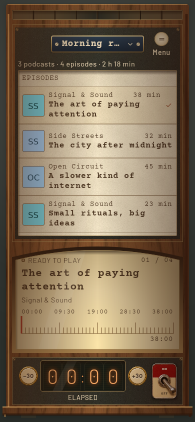
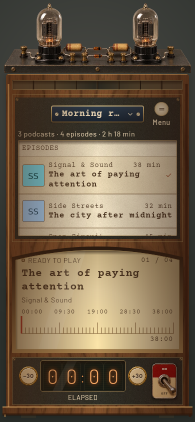
Keep the radio's tubes on every home size (#556)
* Keep the radio's tubes on every home size

Since the first radio home the valve deck stowed whenever the window
could not fit it beside the programme and player budgets, so large
text, small phones, tablets in landscape and the desktop's default
1200x800 window showed a cabinet without tubes. The owner decided the
tubes stay on every screen.

The deck now shows whenever the window is at least 560 dp tall, as on
every other page. Its height follows the cabinet's width up to 22 % of
the window's height; past that the chassis grows longer instead of
the tubes growing larger, repeating mirrored strips of plain plate
beside the outer terminals. The cabinet takes the rest of the height
and the radio scrolls only when that falls below its minimum, which
drops to 440 dp on compact windows so a 320x568 phone keeps its play
switch on screen.

* Record the goldens with the tubes kept

Recorded by record-screenshots run 44139214008. Large text, the small
phone and the tablet now show the valve deck; the phone and playing
goldens differ only in the deck's resampling.

* End the deck's plate strips on an unmirrored copy

GLM's review of #556: when a stretch held an even number of copies,
its last copy was mirrored and met the fixed artwork at the wrong
source column, leaving a seam. The count is now always odd.

Also cover large text on a 320x568 phone with a long title: the deck
stays and the play switch can be scrolled to.

* Fit the deck whole when only rounding makes it wider
[…]

Changed region(s): [[0.0308, 0.0, 0.9846, 0.5853]]

diff --git a/core/designsystem/src/commonMain/kotlin/ch/lkmc/neutrodyne/core/designsystem/radio/RadioMaterials.kt b/core/designsystem/src/commonMain/kotlin/ch/lkmc/neutrodyne/core/designsystem/radio/RadioMaterials.kt
@@ -20,15 +20,21 @@ import androidx.compose.ui.geometry.Offset
 import androidx.compose.ui.geometry.Size
 import androidx.compose.ui.graphics.Brush
 import androidx.compose.ui.graphics.Color
+import androidx.compose.ui.graphics.FilterQuality
+import androidx.compose.ui.graphics.ImageBitmap
 import androidx.compose.ui.graphics.ImageShader
 import androidx.compose.ui.graphics.Path
 import androidx.compose.ui.graphics.ShaderBrush
 import androidx.compose.ui.graphics.Shape
 import androidx.compose.ui.graphics.TileMode
+import androidx.compose.ui.graphics.drawscope.DrawScope
+import androidx.compose.ui.graphics.drawscope.scale
 import androidx.compose.ui.graphics.drawscope.withTransform
 import androidx.compose.ui.layout.ContentScale
 import androidx.compose.ui.text.font.FontFamily
 import androidx.compose.ui.text.font.FontWeight
+import androidx.compose.ui.unit.IntOffset
+import androidx.compose.ui.unit.IntSize
 import androidx.compose.ui.unit.dp
 import ch.lkmc.neutrodyne.core.designsystem.resources.Res
 import ch.lkmc.neutrodyne.core.designsystem.resources.arvo_bold
@@ -46,6 +52,8 @@ import ch.lkmc.neutrodyne.core.designsystem.resources.radio_wood
 import org.jetbrains.compose.resources.Font
 import org.jetbrains.compose.resources.imageResource
 import org.jetbrains.compose.resources.painterResource
+import kotlin.math.ceil
+import kotlin.math.roundToInt
 
 /** Ink printed on the radio's paper and keys. */
 public val Ink: Color = Color(0xFF4B3521)
@@ -247,8 +255,101 @@ public const val VALVE_DECK_ASPECT: Float = 1100f / 423f
 /**
  * The radio's valve deck: two glowing tubes on a metal chassis. The home shows it across the
  * cabinet; every other page carries a smaller one on its cabinet roof (owner decision 2026-11-17).
+ *
+ * The deck fills the node's height. A node wider than the artwork gets a longer chassis rather
+ * than larger tubes: the plain stretches of plate beside the outer terminals repeat, mirrored so
+ * their lighting meets without seams, until the plate spans the node. A narrower node fits the
+ * whole deck inside it.
  */
 @Composable
 public fun ValveDeck(modifier: Modifier = Modifier) {
-    Image(painterResource(Res.drawable.radio_valve_deck), null, modifier, contentScale = ContentScale.Fit)
+    val art = imageResource(Res.drawable.radio_valve_deck)
+    Box(modifier.drawBehind { drawValveDeck(art) })
 }
+
+private fun DrawScope.drawValveDeck(art: ImageBitmap) {
+    if (size.width <= 0f || size.height <= 0f) return
+    // A node within half a pixel of the artwork's proportions (the home's full-width deck, sized
+    // from VALVE_DECK_ASPECT) fits it whole rather than tiling a rounding error.
+    val long = art.width * size.height / art.height < size.width - 0.5f
+    val scale = if (long) size.height / art.height else size.width / art.width
+    val extra = if (long) size.width - art.width * scale else 0f
+    val top = (size.height - art.height * scale) / 2f
+    val height = art.height * scale
+    // Source columns: the left end, a plain stretch, the tubes and circuit, a plain stretch, the
+    // right end. Only the plain stretches grow, each by half of the extra width.
+    val columns =
+        intArrayOf(
+            0,
+            DECK_PLAIN_LEFT.first,
+            DECK_PLAIN_LEFT.last,
+            DECK_PLAIN_RIGHT.first,
+            DECK_PLAIN_RIGHT.last,
+            art.width,
+        )
+    var x = 0f
+    for (segment in 0 until columns.size - 1) {
+        val from = columns[segment]
+        val to = columns[segment + 1]
+        val natural = (to - from) * scale
+        if ((segment == 1 || segment == 3) && extra > 0f) {
+            drawMirroredTiles(art, from, to, x, top, natural + extra / 2f, height, natural)
+            x += natural + extra / 2f
+        } else {
+            drawPart(art, from, to, x, top, natural, height, mirrored = false)
+            x += natural
+        }
+    }
+}
+
+/** Fills [width] from [left] with copies of the [from]..[to] columns, every other one mirrored. */
+private fun DrawScope.drawMirroredTiles(
+    art: ImageBitmap,
+    from: Int,
+    to: Int,
+    left: Float,
+    top: Float,
+    width: Float,
+    height: Float,
+    tile: Float,
+) {
+    // An odd count ends on an unmirrored copy, whose outer edge is the column the fixed artwork
+    // beyond it continues from; ending on a mirrored copy would leave a seam there.
+    val count = ceil(width / tile).toInt().coerceAtLeast(1).let { if (it % 2 == 0) it + 1 else it }
+    val each = width / count
+    for (index in 0 until count) {
+        drawPart(art, from, to, left + index * each, top, each, height, mirrored = index % 2 == 1)
+    }
+}
+
+private fun DrawScope.drawPart(
+    art: ImageBitmap,
+    from: Int,
+    to: Int,
+    left: Float,
+    top: Float,
+    width: Float,
+    height: Float,
+    mirrored: Boolean,
+) {
+    val dstLeft = left.roundToInt()
+    val dstTop = top.roundToInt()
+    val dstSize = IntSize((left + width).roundToInt() - dstLeft, (top + height).roundToInt() - dstTop)
+    if (dstSize.width <= 0 || dstSize.height <= 0) return
+    val center = Offset(dstLeft + dstSize.width / 2f, 0f)
+    scale(if (mirrored) -1f else 1f, 1f, center) {
+        drawImage(
+            art,
+            IntOffset(from, 0),
+            IntSize(to - from, art.height),
+            IntOffset(dstLeft, dstTop),
+            dstSize,
+            filterQuality = FilterQuality.High,
+        )
+    }
+}
+
+// Columns of plain chassis plate in the deck artwork, between each outer terminal and the plate's
+// end: only plate texture and its front edge, so they repeat without showing.
+private val DECK_PLAIN_LEFT = 86..100
+private val DECK_PLAIN_RIGHT = 998..1010

diff --git a/core/ui/src/commonMain/kotlin/ch/lkmc/neutrodyne/core/ui/radio/RadioScreen.kt b/core/ui/src/commonMain/kotlin/ch/lkmc/neutrodyne/core/ui/radio/RadioScreen.kt
@@ -29,22 +29,16 @@ import androidx.compose.foundation.verticalScroll
 import androidx.compose.material3.MaterialTheme
 import androidx.compose.material3.lightColorScheme
 import androidx.compose.runtime.Composable
-import androidx.compose.runtime.getValue
-import androidx.compose.runtime.mutableStateOf
-import androidx.compose.runtime.remember
 import androidx.compose.runtime.saveable.rememberSaveable
-import androidx.compose.runtime.setValue
 import androidx.compose.ui.Alignment
 import androidx.compose.ui.Modifier
 import androidx.compose.ui.draw.clip
 import androidx.compose.ui.draw.shadow
 import androidx.compose.ui.graphics.Brush
 import androidx.compose.ui.graphics.Color
-import androidx.compose.ui.layout.onSizeChanged
 import androidx.compose.ui.platform.LocalDensity
 import androidx.compose.ui.platform.LocalWindowInfo
 import androidx.compose.ui.platform.testTag
-import androidx.compose.ui.unit.Dp
 import androidx.compose.ui.unit.dp
 import ch.lkmc.neutrodyne.core.designsystem.radio.Brass
 import ch.lkmc.neutrodyne.core.designsystem.radio.Chassis
@@ -52,6 +46,7 @@ import ch.lkmc.neutrodyne.core.designsystem.radio.Cream
 import ch.lkmc.neutrodyne.core.designsystem.radio.Ink
 import ch.lkmc.neutrodyne.core.designsystem.radio.MaterialPlate
 import ch.lkmc.neutrodyne.core.designsystem.radio.RadioMaterial
+import ch.lkmc.neutrodyne.core.designsystem.radio.VALVE_DECK_ASPECT
 import ch.lkmc.neutrodyne.core.designsystem.radio.ValveDeck
 import ch.lkmc.neutrodyne.core.designsystem.radio.cabinetEdges
 import ch.lkmc.neutrodyne.core.designsystem.radio.radioStage
@@ -124,19 +119,24 @@ private fun RadioCabinet(
                 wide -> RadioRows.WIDE
                 else -> RadioRows.STANDARD
             }
-        val density = LocalDensity.current
-        val scale = density.fontScale
-        var measuredPlayer by remember(width, scale, compact, short) { mutableStateOf<Dp?>(null) }
-        // Always calculate against the unhidden deck, independent of content and the last result.
+        val scale = LocalDensity.current.fontScale
+        // The deck spans the cabinet, its height following the width up to a share of the window's
+        // height; beyond that its chassis grows longer instead. It shows whenever the window is tall
+        // enough for it at all (the tubes stay on every screen, owner decision 2026-11-17): the
+        // cabinet takes the rest, and the whole radio scrolls when that falls short of the cabinet's
+        // minimum.
         val deckWidth = width - (if (narrow) 20.dp else 24.dp) + 18.dp
-        val naturalDeck = deckWidth * (423f / 1100f)
-        val playerBudget = if (wide) 0.dp else measuredPlayer ?: (if (compact) 207.dp else 240.dp) * scale
-        val programmeBudget = (if (compact) 230.dp else 280.dp) * scale
-        val deckVisible = height >= 660.dp && height - naturalDeck - playerBudget - 80.dp >= programmeBudget
-        val minimumHeight = (if (wide) 280.dp else 500.dp) * scale
-        val needsScroll = height < minimumHeight
+        val deckHeight = minOf(deckWidth / VALVE_DECK_ASPECT, height * DECK_HEIGHT_SHARE)
+        val deckVisible = height >= DECK_MIN_HEIGHT
+        val minimumHeight =
+            when {
+                wide -> 280.dp
+                compact -> 440.dp
+                else -> 500.dp
+            } * scale
+        val contentHeight = maxOf(height, minimumHeight + if (deckVisible) deckHeight else 0.dp)
+        val needsScroll = contentHeight > height
         Column(if (needsScroll) Modifier.verticalScroll(rememberScrollState()) else Modifier) {
-            val contentHeight = maxOf(height, minimumHeight)
             Column(Modifier.height(contentHeight).fillMaxWidth().padding(horizontal = if (narrow) 10.dp else 12.dp)) {
                 if (deckVisible) {
                     ValveDeck(
@@ -144,7 +144,7 @@ private fun RadioCabinet(
                             .testTag("radio_valve_deck")
                             .requiredWidth(
                                 deckWidth,
-                            ).height(naturalDeck)
+                            ).height(deckHeight)
                             .align(Alignment.CenterHorizontally)
                             .offset(y = 5.dp),
                     )
@@ -192,9 +192,6 @@ private fun RadioCabinet(
                                         actions,
                                         compact,
                                         short,
-                                        Modifier.onSizeChanged {
-                                            measuredPlayer = with(density) { it.height.toDp() }
-                                        },
                                     )
                                 }
                             }
@@ -231,9 +228,6 @@ private fun RadioCabinet(
                                     actions,
                                     compact,
                                     short,
-                                    Modifier.onSizeChanged {
-                                        measuredPlayer = with(density) { it.height.toDp() }
-                                    },
                                 )
                             }
                         }
@@ -271,3 +265,8 @@ private fun RadioCabinet(
         }
     }
 }
+
+// The shortest window that shows the deck, as on every other page, and the largest share of the
+// window's height the deck takes.
+private val DECK_MIN_HEIGHT = 560.dp
+private const val DECK_HEIGHT_SHARE = 0.22f

diff --git a/core/ui/src/desktopTest/kotlin/ch/lkmc/neutrodyne/core/ui/radio/RadioInteractionTest.kt b/core/ui/src/desktopTest/kotlin/ch/lkmc/neutrodyne/core/ui/radio/RadioInteractionTest.kt
@@ -309,7 +309,7 @@ class RadioInteractionTest {
             onNodeWithTag("radio_play").performScrollTo().assertIsDisplayed()
         }
 
-    @Test fun aLongSelectedTitleStowsTheDeckWithoutOscillating() =
+    @Test fun aLongSelectedTitleKeepsTheDeckAndThePlayer() =
         runDesktopComposeUiTest(width = 390, height = 844) {
             var state by mutableStateOf(radioFixture())
             setContent {
@@ -331,8 +331,64 @@ class RadioInteractionTest {
                             },
                     )
             }
-            onNodeWithTag("radio_valve_deck").assertDoesNotExist()
-            mainClock.advanceTimeBy(500)
+            onNodeWithTag("radio_valve_deck").assertIsDisplayed()
+            onNodeWithTag("radio_play").assertIsDisplayed()
+        }
+
+    // The tubes stay on every screen (owner decision 2026-11-17): large text and small phones keep
+    // the deck, with the play switch still on screen; only windows too short for it stow it.
+    @Test fun largeTextKeepsTheDeckAndThePlaySwitch() =
+        runDesktopComposeUiTest(width = 390, height = 844) {
+            setContent {
+                CompositionLocalProvider(LocalDensity provides Density(1f, 1.3f)) {
+                    NeutrodyneTheme(SystemUiState.DEFAULT) { RadioScreen(radioFixture(), RadioActions()) }
+                }
+            }
+            onNodeWithTag("radio_valve_deck").assertIsDisplayed()
+            onNodeWithTag("radio_play").assertIsDisplayed()
+        }
+
+    @Test fun aSmallPhoneKeepsTheDeckAndThePlaySwitch() =
+        runDesktopComposeUiTest(width = 320, height = 568) {
+            setContent { NeutrodyneTheme(SystemUiState.DEFAULT) { RadioScreen(radioFixture(), RadioActions()) } }
+            onNodeWithTag("radio_valve_deck").assertIsDisplayed()
+            onNodeWithTag("radio_play").assertIsDisplayed()
+        }
+
+    @Test fun largeTextOnASmallPhoneKeepsALongTitledPlayerReachable() =
+        runDesktopComposeUiTest(width = 320, height = 568) {
+            val state =
+                radioFixture().let { fixture ->
+                    fixture.copy(
+                        episodes =
+                            fixture.episodes.map { episode ->
+                                if (episode.id == fixture.selectedId) {
+                                    episode.copy(title = "A longer programme title that needs room. ".repeat(6))
+                                } else {
+                                    episode
+                                }
+                            },
+                    )
+                }
+            setContent {
+                CompositionLocalProvider(LocalDensity provides Density(1f, 1.3f)) {
+                    NeutrodyneTheme(SystemUiState.DEFAULT) { RadioScreen(state, RadioActions()) }
+                }
+            }
+            onNodeWithTag("radio_valve_deck").assertIsDisplayed()
+            onNodeWithTag("radio_play").performScrollTo().assertIsDisplayed()
+        }
+
+    @Test fun aWideWindowKeepsTheDeck() =
+        runDesktopComposeUiTest(width = 1200, height = 800) {
+            setContent { NeutrodyneTheme(SystemUiState.DEFAULT) { RadioScreen(radioFixture(), RadioActions()) } }
+            onNodeWithTag("radio_valve_deck").assertIsDisplayed()
+            onNodeWithTag("radio_play").assertIsDisplayed()
+        }
+
+    @Test fun aShortWindowStowsTheDeck() =
+        runDesktopComposeUiTest(width = 700, height = 360) {
+            setContent { NeutrodyneTheme(SystemUiState.DEFAULT) { RadioScreen(radioFixture(), RadioActions()) } }
             onNodeWithTag("radio_valve_deck").assertDoesNotExist()
             onNodeWithTag("radio_play").assertIsDisplayed()
         }
